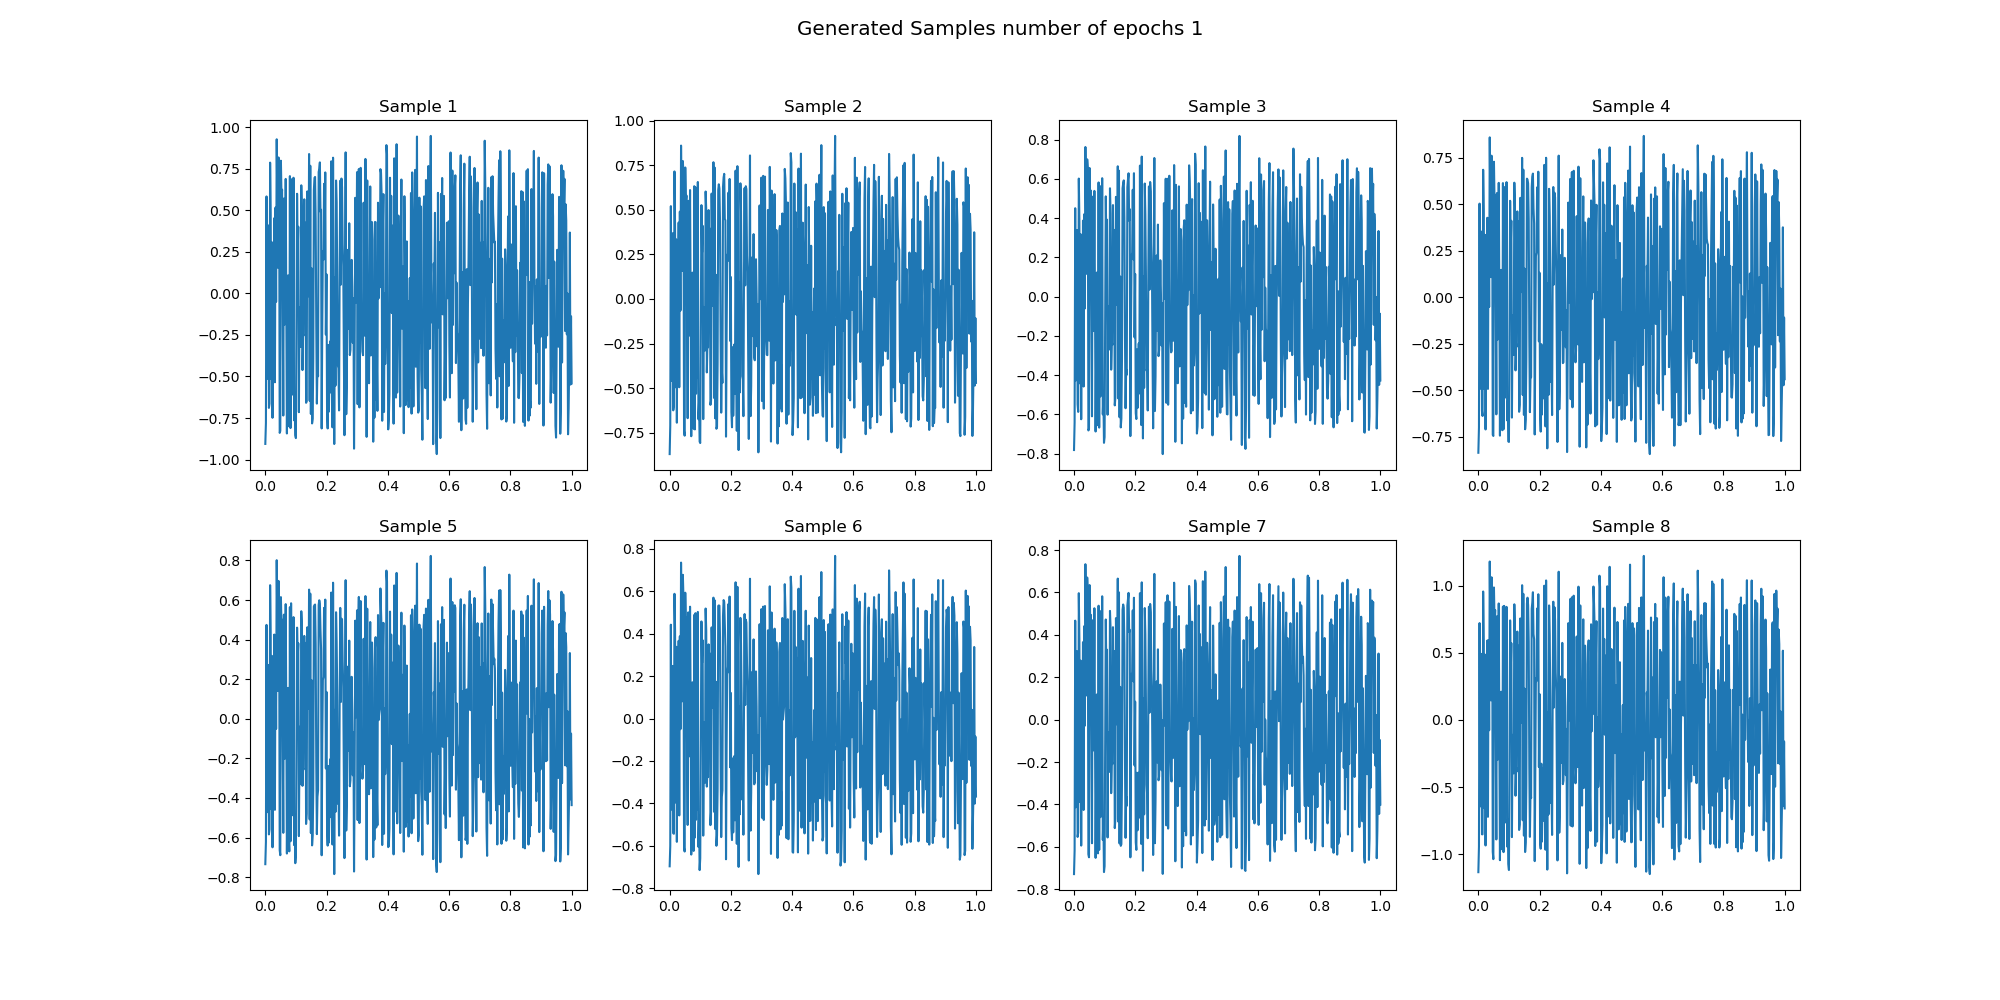
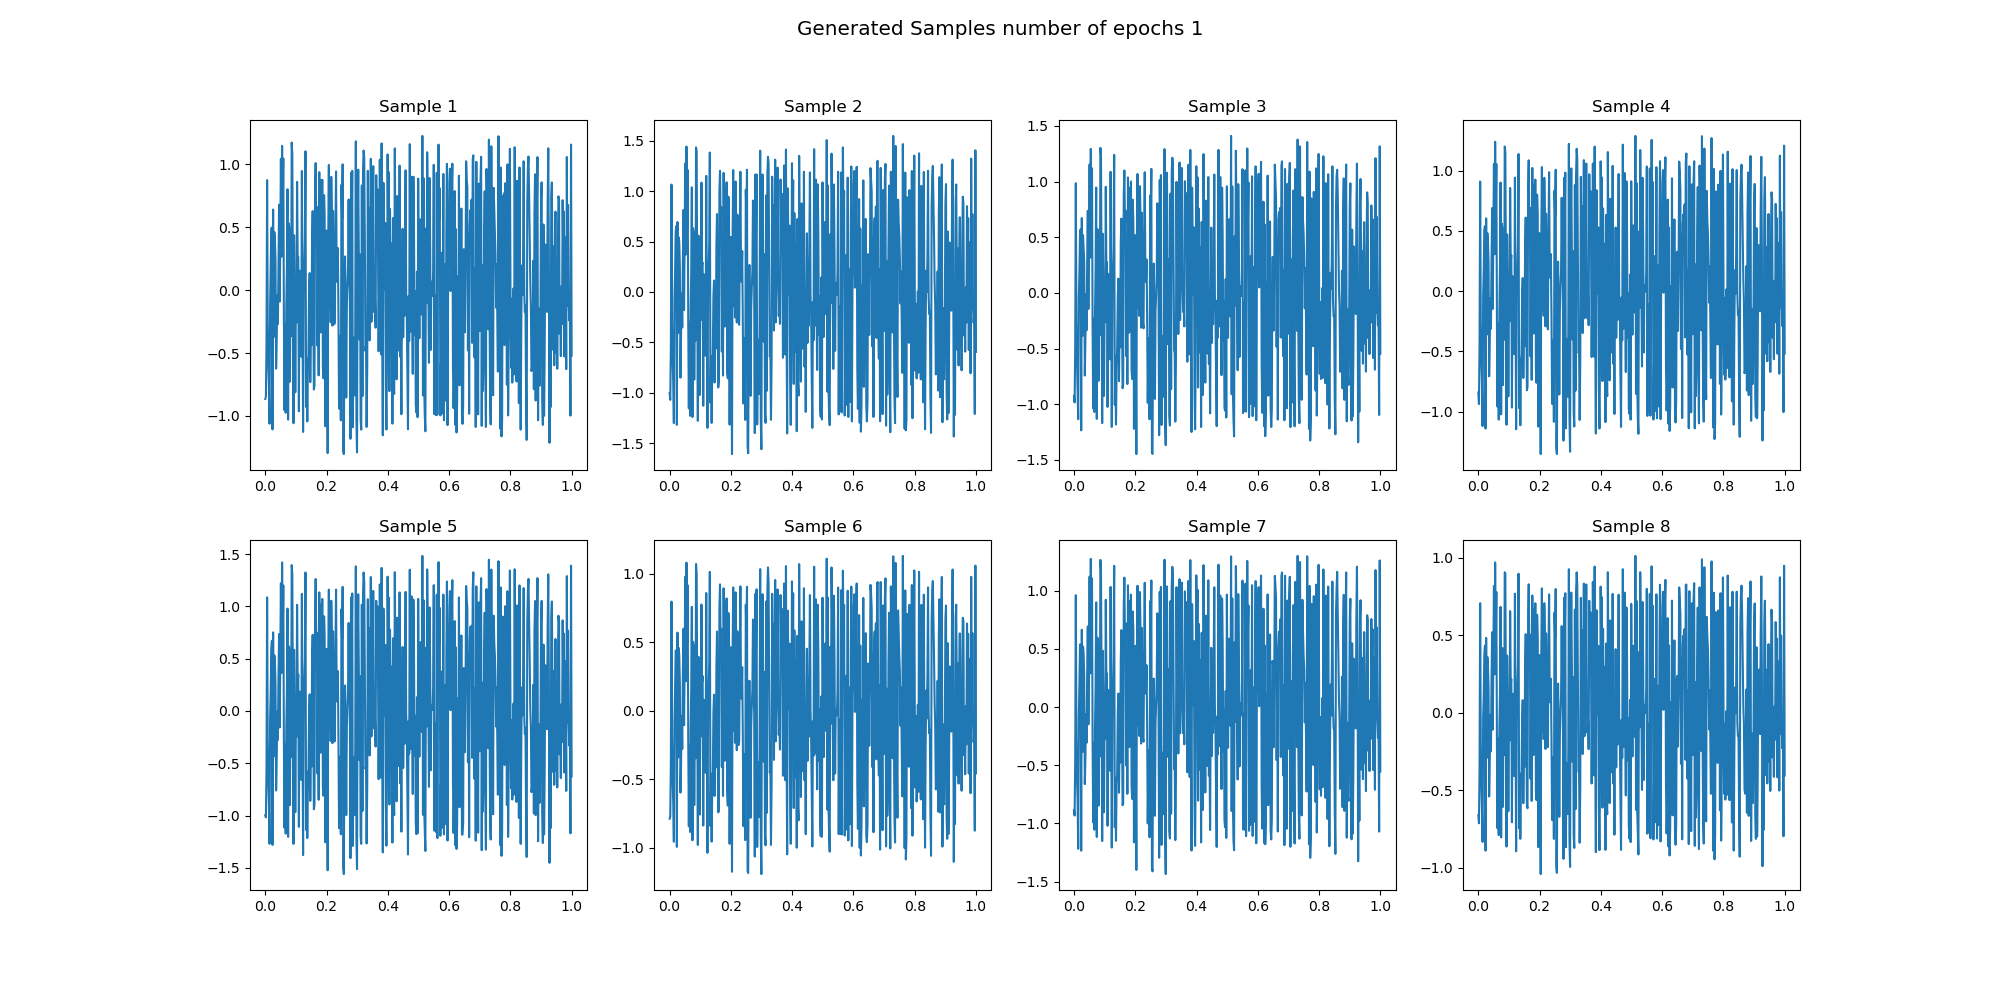
gan test

diff --git a/sml/GAN_test.py b/sml/GAN_test.py
@@ -3,48 +3,94 @@ import torch
 import torch.nn as nn
 import torch.nn.functional as F
 import torch.optim as optim
-import PIL
-PIL.PILLOW_VERSION = PIL.__version__
 from torchvision import datasets, transforms
 from torch.autograd import Variable
 from torchvision.utils import save_image
+import numpy as np
+import matplotlib.pyplot as plt
+import os
+import argparse
+os.environ["KMP_DUPLICATE_LIB_OK"] = "True"
+# Device configuration
+device = torch.device('cuda' if torch.cuda.is_available() else 'cpu')
 
-bs = 100
+parser = argparse.ArgumentParser()
 
-# MNIST Dataset
-transform = transforms.Compose([transforms.ToTensor(),
-transforms.Normalize((0.5,), (0.5,))
-])
+parser.add_argument('--n_epochs',help='Number of epochs',type=int)
 
-train_dataset = datasets.MNIST(root='./mnist_data/', train=True, transform=transform, download=True)
-test_dataset = datasets.MNIST(root='./mnist_data/', train=False, transform=transform, download=False)
+args = parser.parse_args()
 
-# Data Loader (Input Pipeline)
-train_loader = torch.utils.data.DataLoader(dataset=train_dataset, batch_size=bs, shuffle=True)
-test_loader = torch.utils.data.DataLoader(dataset=test_dataset, batch_size=bs, shuffle=False)
+#%% Hyperparamters 
+
+# Batch size 
+bs = 300
+# Dimension of z - noise vector 
+z_dim = 100
+
+# loss 
+criterion = nn.BCELoss() 
+# learning rate
+lr = 0.0002 
+np.random.seed(2022) # random seed 
+# number of epochs 
+n_epochs = args.n_epochs
+
+#%% Generate sine wave data
+
+def sin_func(x):
+  return np.sin(x)
+
+n = 30000              # number of waves
+nt = 128*4              # time steps pr wave 
+#f = 3.0                  # frequency in Hz
+
+
+
+t = np.linspace(0,1,nt)  # time stamps in s
+x = np.zeros((n,nt))
+phase = np.random.uniform(-np.pi, np.pi, size=n)
+for i in range(n):
+    f = np.random.uniform(1,5) # frequency in Hz  
+    A = np.random.uniform(1,5) # random amplitude
+    x[i,:] = A*np.sin(2*np.pi*f*t + phase[i] )
+   
+   
+#%% Ready data
+
+train_set = torch.from_numpy(x)
+
+train_set = train_set.float()
+
+train_loader = torch.utils.data.DataLoader(dataset=train_set, batch_size=bs, shuffle=True)
+
+#print(train_set.shape)
+
+#%% Define Network
+
 
 class Generator(nn.Module):
     def __init__(self, g_input_dim, g_output_dim):
         super(Generator, self).__init__()       
-        self.fc1 = nn.Linear(g_input_dim, 256)
+        self.fc1 = nn.Linear(g_input_dim, g_input_dim*2)
         self.fc2 = nn.Linear(self.fc1.out_features, self.fc1.out_features*2)
         self.fc3 = nn.Linear(self.fc2.out_features, self.fc2.out_features*2)
         self.fc4 = nn.Linear(self.fc3.out_features, g_output_dim)
     
     # forward method
     def forward(self, x): 
-        x = F.leaky_relu(self.fc1(x), 0.2)
-        x = F.leaky_relu(self.fc2(x), 0.2)
-        x = F.leaky_relu(self.fc3(x), 0.2)
-        return torch.tanh(self.fc4(x))
+        x = F.leaky_relu(self.fc1(x), 0.1) # leaky relu, with slope angle 
+        x = F.leaky_relu(self.fc2(x), 0.1) 
+        x = F.leaky_relu(self.fc3(x), 0.1)
+        #return torch.tanh(self.fc4(x))
+        return self.fc4(x) 
     
 class Discriminator(nn.Module):
     def __init__(self, d_input_dim):
         super(Discriminator, self).__init__()
-        self.fc1 = nn.Linear(d_input_dim, 1024)
+        self.fc1 = nn.Linear(d_input_dim, d_input_dim *4)
         self.fc2 = nn.Linear(self.fc1.out_features, self.fc1.out_features//2)
         self.fc3 = nn.Linear(self.fc2.out_features, self.fc2.out_features//2)
-        self.fc4 = nn.Linear(self.fc3.out_features, 1)
+        self.fc4 = nn.Linear(self.fc3.out_features, 1)  # output dim = 1 for binary classification 
     
     # forward method
     def forward(self, x):
@@ -54,38 +100,55 @@ class Discriminator(nn.Module):
         x = F.dropout(x, 0.3)
         x = F.leaky_relu(self.fc3(x), 0.2)
         x = F.dropout(x, 0.3)
-        return torch.sigmoid(self.fc4(x))
-
+        return torch.sigmoid(self.fc4(x))  # sigmoid for probaility 
+    
+    
 # build network
-z_dim = 100
-mnist_dim = train_dataset.train_data.size(1) * train_dataset.train_data.size(2)
+G = Generator(g_input_dim = z_dim, g_output_dim = nt).to(device)
+D = Discriminator(nt).to(device)
 
-G = Generator(g_input_dim = z_dim, g_output_dim = mnist_dim)#.to(device)
-D = Discriminator(mnist_dim)#.to(device)
-
-# loss
-criterion = nn.BCELoss() 
-
-# optimizer
-lr = 0.0002 
+# set optimizer 
 G_optimizer = optim.Adam(G.parameters(), lr = lr)
 D_optimizer = optim.Adam(D.parameters(), lr = lr)
+
+
+#%% Define training loops 
+# 
+def G_train(x):
+    #=======================Train the generator=======================#
+    G.zero_grad()
+
+    z = Variable(torch.randn(bs, z_dim).to(device))
+    y = Variable(torch.ones(bs, 1).to(device))
+
+    G_output = G(z)
+    D_output = D(G_output)
+    G_loss = criterion(D_output, y)
+
+    # gradient backprop & optimize ONLY G's parameters
+    G_loss.backward()
+    G_optimizer.step()
+        
+    return G_loss.data.item()
 
 def D_train(x):
     #=======================Train the discriminator=======================#
     D.zero_grad()
+    
+    # train discriminator on real data
+    
+    x_real, y_real = x, torch.ones(bs,1)
 
-    # train discriminator on real
-    x_real, y_real = x.view(-1, mnist_dim), torch.ones(bs, 1)
-    x_real, y_real = Variable(x_real), Variable(y_real)#.to(device))
+    x_real, y_real = Variable(x_real.to(device)), Variable(y_real.to(device))
 
     D_output = D(x_real)
     D_real_loss = criterion(D_output, y_real)
     D_real_score = D_output
 
-    # train discriminator on facke
-    z = Variable(torch.randn(bs, z_dim))
-    x_fake, y_fake = G(z), Variable(torch.zeros(bs, 1))
+    # train discriminator on fake
+    z = Variable(torch.randn(bs, z_dim).to(device))
+    x_fake, y_fake = G(z), Variable(torch.zeros(bs, 1).to(device))
+    
 
     D_output = D(x_fake)
     D_fake_loss = criterion(D_output, y_fake)
@@ -98,39 +161,42 @@ def D_train(x):
         
     return  D_loss.data.item()
 
-def G_train(x):
-    #=======================Train the generator=======================#
-    G.zero_grad()
 
-    z = Variable(torch.randn(bs, z_dim))#.to(device))
-    y = Variable(torch.ones(bs, 1))#.to(device))
-
-    G_output = G(z)
-    D_output = D(G_output)
-    G_loss = criterion(D_output, y)
-
-    # gradient backprop & optimize ONLY G's parameters
-    G_loss.backward()
-    G_optimizer.step()
-        
-    return G_loss.data.item()
-
-
-n_epoch = 200
-for epoch in range(1, n_epoch+1):           
+#%% 
+for epoch in range(1, n_epochs+1):           
     D_losses, G_losses = [], []
-    for batch_idx, (x, _) in enumerate(train_loader):
+    for batch_idx,x in enumerate(train_loader):
+     
         D_losses.append(D_train(x))
         G_losses.append(G_train(x))
 
     print('[%d/%d]: loss_d: %.3f, loss_g: %.3f' % (
-            (epoch), n_epoch, torch.mean(torch.FloatTensor(D_losses)), torch.mean(torch.FloatTensor(G_losses))))
-     
-    
-with torch.no_grad():
-    test_z = Variable(torch.randn(bs, z_dim))
-    generated = G(test_z)
+            (epoch), n_epochs, torch.mean(torch.FloatTensor(D_losses)), torch.mean(torch.FloatTensor(G_losses))))
+                                                                                                                    
+                                                                                                                    
+#%% Generate sample 
 
-    save_image(generated.view(generated.size(0), 1, 28, 28), './samples/sample_' + '.png')
+with torch.no_grad():
+    
+    fig, ax = plt.subplots(2,4)
+    fig.set_figheight(10)
+    fig.set_figwidth(20)
+    #fig.tight_layout()
     
     
+    c = 1
+    for i in range(0,2):
+        for j in range(0,4):
+            z = Variable(torch.randn(z_dim).to(device))
+            generated = G(z)
+            y = generated.cpu().detach().numpy()
+            ax[i,j].plot(t,y)
+            ax[i,j].set_title('Sample ' + str(c))
+            c+= 1
+    
+    #plt.show()
+    fig.suptitle('Generated Samples number of epochs '+ str(n_epochs),fontsize="x-large")
+    plt.savefig(str(n_epochs)+'.png')
+         
+                                                                                                                        
+# %%
